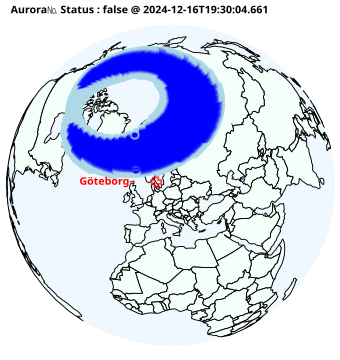
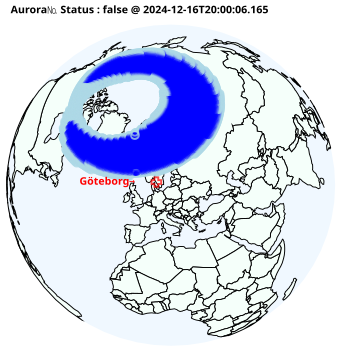
20241216200019 added aur.html

diff --git a/aur.html b/aur.html
@@ -7,6 +7,6 @@
 <body>
     <h1>Aurora Watch</h1>
     <img src="a.png" alt="Aurora Image" style="width:100%;max-width:600px;">
-    <p>Aurora Level 🌌= (1.0) was observed. (2024-12-16T19:30:04.661)</p>
+    <p>Aurora Level 🌌= (0.5) was observed. (2024-12-16T20:00:06.165)</p>
 </body>
 </html>
